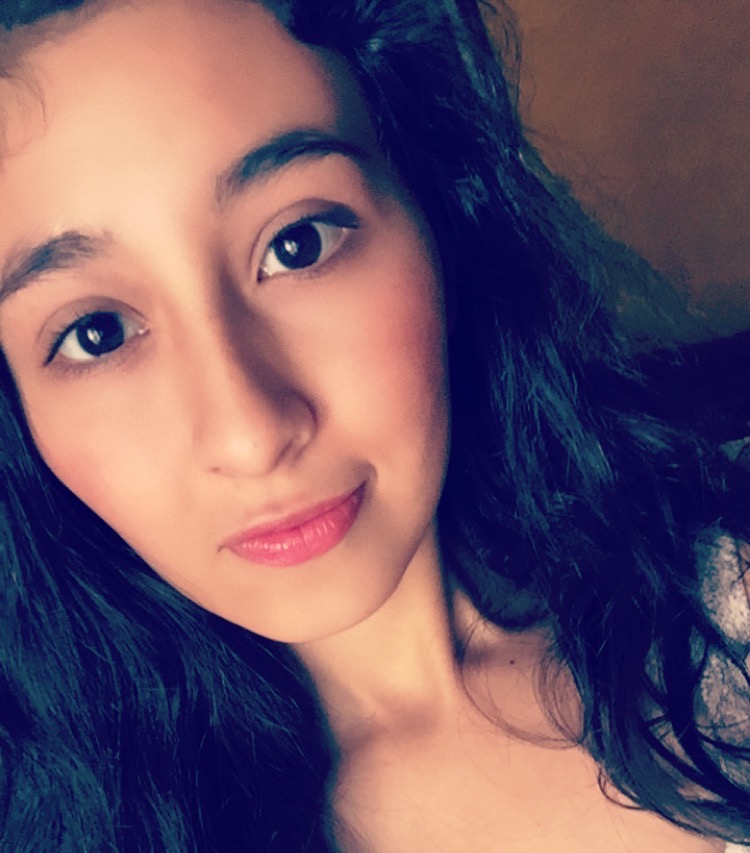
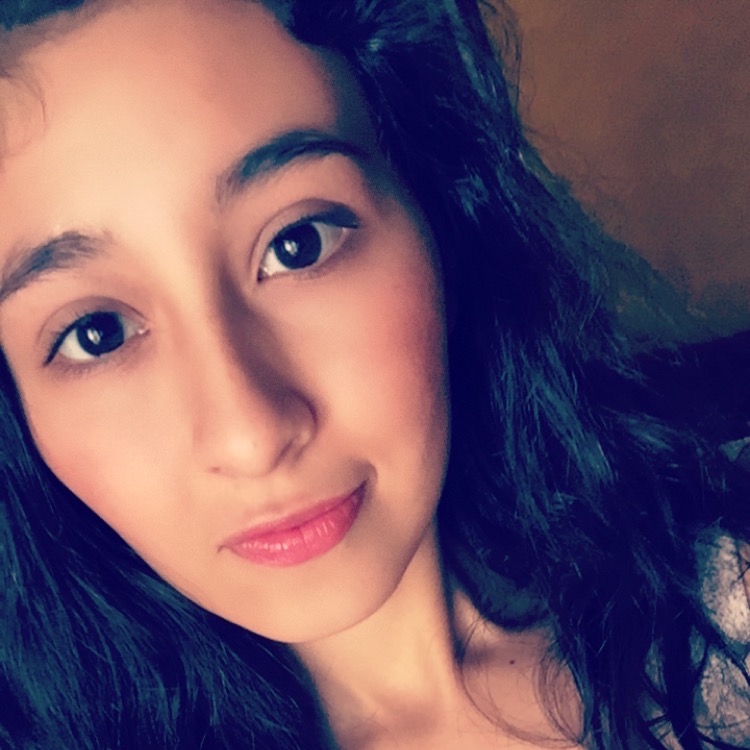
final

diff --git a/index.html b/index.html
@@ -11,11 +11,11 @@
 	
 	<div class="container">
 		
+		<h2> A banana page 🍌</h2>
+
 		<div class="imagen">
 			<img src="fotoperfil.jpg">
 		</div>
-
-		<h2> A banana page 🍌</h2>
 
 		<h3>Bailarina & Emprendedora</h3>
 
@@ -36,13 +36,15 @@
 
 		</div>
 
-		<h3>Contacto</h3>
+		<h3 class="contacto">Contacto</h3>
 
 		<form>
 			<input type="nombre" placeholder="Nombre" class="nombre"> </input>
 			<input type="mail" placeholder="Mail" class="mail"> </input>
 			<textarea name="mensaje" rows="4" cols="50" placeholder="Mensaje" class="mensaje"></textarea>
 		</form>
+
+		<div class="boton">Enviar</div>
 
 	</div>
 

diff --git a/style.css b/style.css
@@ -16,7 +16,7 @@ body{
 
 .imagen img{
 	height: 300px;
-	border-radius: 400px;
+	border-radius: 50%;
 }
 
 .imagen{
@@ -26,7 +26,8 @@ body{
 
 h2{
 	text-align: center;
-	padding: 10px;
+	padding: 0px
+	margin 0px;
 	color: #2D413E;
 	font-family: Monaco;
 }
@@ -44,6 +45,10 @@ h3 {
 }
 
 h3{
+	color: #2D413E;
+}
+
+.contacto{
 	color: #2D413E;
 }
 
@@ -65,3 +70,17 @@ p{
 	width: 100%;
 	font-family: Helvetica;
 }
+
+.boton{
+	text-align: center;
+	background-color: #1CCB4B;
+	border-radius: 10px;
+	padding: 8px;
+	color: white;
+	font-family: Monaco;
+}
+
+.boton:hover{
+	opacity: .6;
+}
+
